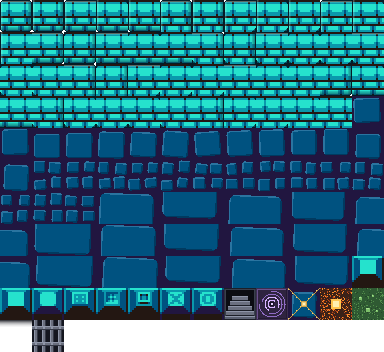
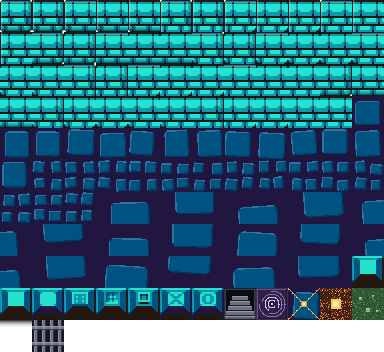
Floor: smaller large stones + fix all-clockwise rotation
Two tweaks to the flagstones.

Rotation was biased: the weak LCG, seeded per variant with a linear
progression, produced a nearly-linear Nth output, so all 8 large-stone variants
landed positive — every large stone tilted clockwise. Replaced it with
splitmix32, whose avalanche decorrelates sequential seeds; jitter and rotation
are now random in both directions (large angles went from 8/8 positive to a 5/3
split).

Large stones: shrank from ~48px to ~40px within their 2x2-cell slot, so each
covers less ground with a wider mortar joint. The slot stays 2x2 cells — that's
the only clean size step above `regular` on a 32px grid — but the visible stone
footprint is smaller, which is what was asked.

Verified in-game: large stones read smaller with varied rotation; no console
errors. 758 tests pass.

Changed region(s): [[0.0, 0.2812, 1.0, 0.9062], [0.7812, 0.3438, 0.8125, 0.375], [0.5312, 0.3438, 0.5625, 0.375]]

diff --git a/assets/generate-dungeon-tiles.js b/assets/generate-dungeon-tiles.js
@@ -153,11 +153,20 @@ class Tile {
   }
 }
 
+/** splitmix32. A plain LCG was too weak here: seeded per floor variant with a
+ *  linear progression, its Nth output came out nearly linear in the seed, so the
+ *  8 large-stone variants all rotated the same way (clockwise). splitmix's
+ *  avalanche decorrelates sequential seeds, so jitter and rotation are properly
+ *  random in both directions. */
 function rng(seed) {
   let s = seed >>> 0;
   return () => {
-    s = (s * 1664525 + 1013904223) >>> 0;
-    return s / 0x100000000;
+    s = (s + 0x9e3779b9) >>> 0;
+    let z = s;
+    z = Math.imul(z ^ (z >>> 16), 0x21f0aaad);
+    z = Math.imul(z ^ (z >>> 15), 0x735a2d97);
+    z = z ^ (z >>> 15);
+    return (z >>> 0) / 0x100000000;
   };
 }
 
@@ -345,7 +354,7 @@ function drawLargeQuads(seed) {
   const surf = new Tile(64);
   surf.fill(MORTAR);
   const g = stoneRng(seed);
-  stampStone(surf, 32 + g.j(3), 32 + g.j(3), g.range(52, 57), g.range(52, 57), g.j(3.5), 7);
+  stampStone(surf, 32 + g.j(3.5), 32 + g.j(3.5), g.range(39, 44), g.range(39, 44), g.j(4), 6);
   return [surf.quadrant(0, 0), surf.quadrant(32, 0), surf.quadrant(0, 32), surf.quadrant(32, 32)];
 }
 
